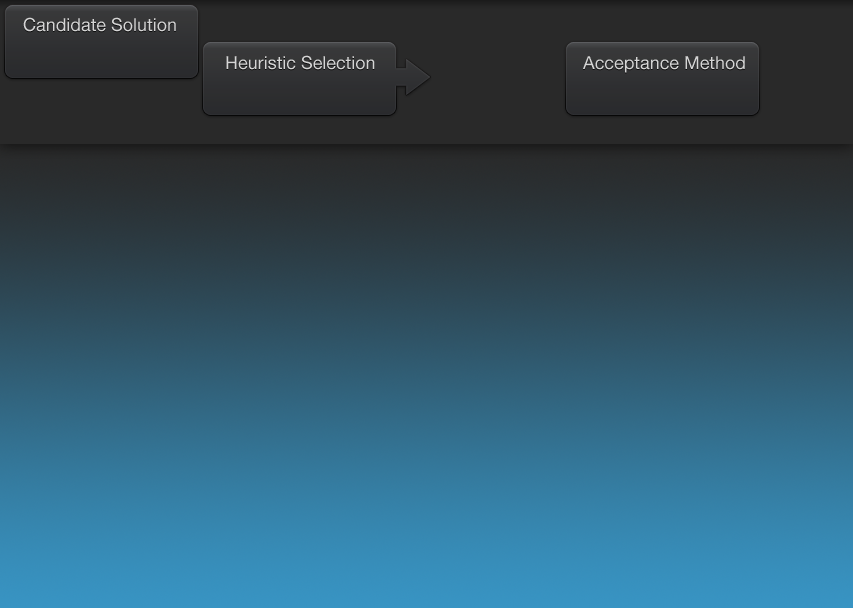
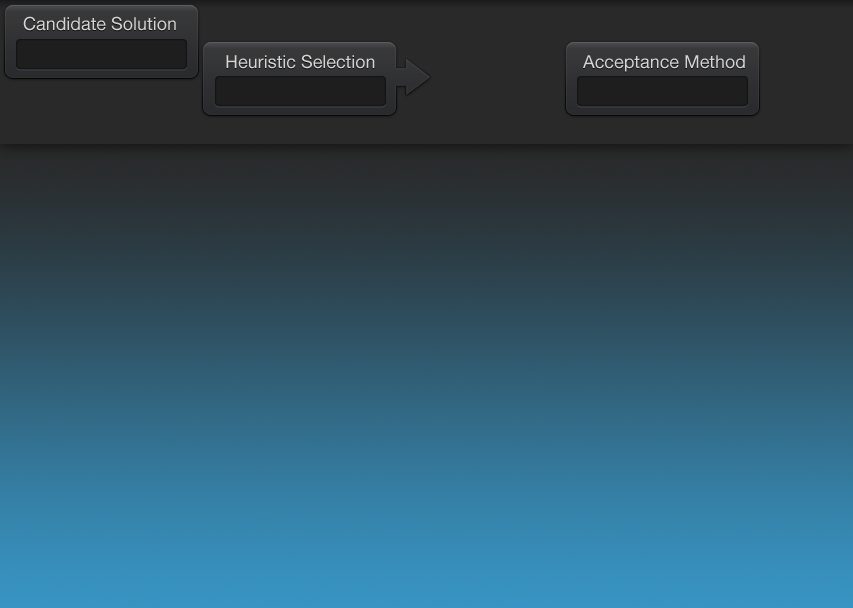
Updated AnimationPanel.java to fit the new background image. Also changed some font colors.

Changed region(s): [[0.6706, 0.0938, 0.8839, 0.125], [0.0305, 0.0312, 0.2134, 0.0625], [0.2743, 0.0938, 0.4267, 0.125]]

diff --git a/AnimationPanel.java b/AnimationPanel.java
@@ -94,6 +94,7 @@ public class AnimationPanel extends JPanel {
 
 
 			Font F3 = new Font ("Comic Sans MS", Font.PLAIN,12);
+			
 			 String candidateSolutionString = "";
 			 newSolutionString = "";
 			 f.panel.m_panel.p_left.newSolutionContent.setText(newSolutionString);
@@ -172,13 +173,14 @@ public class AnimationPanel extends JPanel {
 		     drawLowLevelHeuristicBox(g2D);
 		     Font F1 = new Font ("Comic Sans MS", Font.PLAIN,16);
 		     if(!f.vsh.hyperHeuristic.heuristicsSelection.getName().equals("Reinforcement Learning"))
-		     g.setFont(F1);
-		     g.setColor(new Color(255,0,255));
-		     g2D.drawString(""+f.vsh.hyperHeuristic.heuristicsSelection.getName(),214, 100);
 
-
-		     g.setFont(F3);
-		     g2D.drawString(""+f.vsh.hyperHeuristic.acceptanceMethod.getName(),614, 90);
+			g.setFont(F3);
+			// A nice shade of blue.
+			g.setColor(new Color(63,166,219));
+			// Draw the name of the heuristic selection method.
+			g2D.drawString(""+f.vsh.hyperHeuristic.heuristicsSelection.getName(),224, 96);
+			// Draw the name of the acceptance method.
+			g2D.drawString(""+f.vsh.hyperHeuristic.acceptanceMethod.getName(),590, 96);
 
 		     g.setColor(Color.RED);
 		     g.setFont(F2);
@@ -701,8 +703,13 @@ public class AnimationPanel extends JPanel {
 		if(f.vsh.hyperHeuristic.acceptanceMethod.checkIfAcceptance(f.vsh.candidateSolution, f.vsh.newSolution)){
 			f.panel.m_panel.p_left.acceptedContent.setForeground(new Color(255,102,255));
 			f.panel.m_panel.p_left.acceptedContent.setText("Yes");
-			g.setColor(new Color(255,0,255));
-			g.drawString("Accepted", 625, 20);
+			
+			// Draw the "ACCEPTED" result.
+			g.setFont( new Font ("Arial", Font.BOLD,14) );
+			g.setColor(new Color(121,206,99));
+			g.drawString("ACCEPTED", 635, 30);
+			
+			
 			g.setFont(F2);
 			if(y11>30){
 				g.setColor(Color.YELLOW);
@@ -766,8 +773,12 @@ public class AnimationPanel extends JPanel {
 		}else{
 			f.panel.m_panel.p_left.acceptedContent.setForeground(new Color(255,102,255));
 			f.panel.m_panel.p_left.acceptedContent.setText("No");
-			g.setColor(new Color(255,0,255));
-			g.drawString("Rejected", 770, 40);
+			
+			// Draw the "REJECTED" result.
+			g.setFont( new Font ("Arial", Font.BOLD,14) );
+			g.setColor(new Color(255,0,0));
+			g.drawString("REJECTED", 635, 30);
+			
 			g.setFont(F2);
 			if(x11<900){
 				g.setColor(Color.YELLOW);
